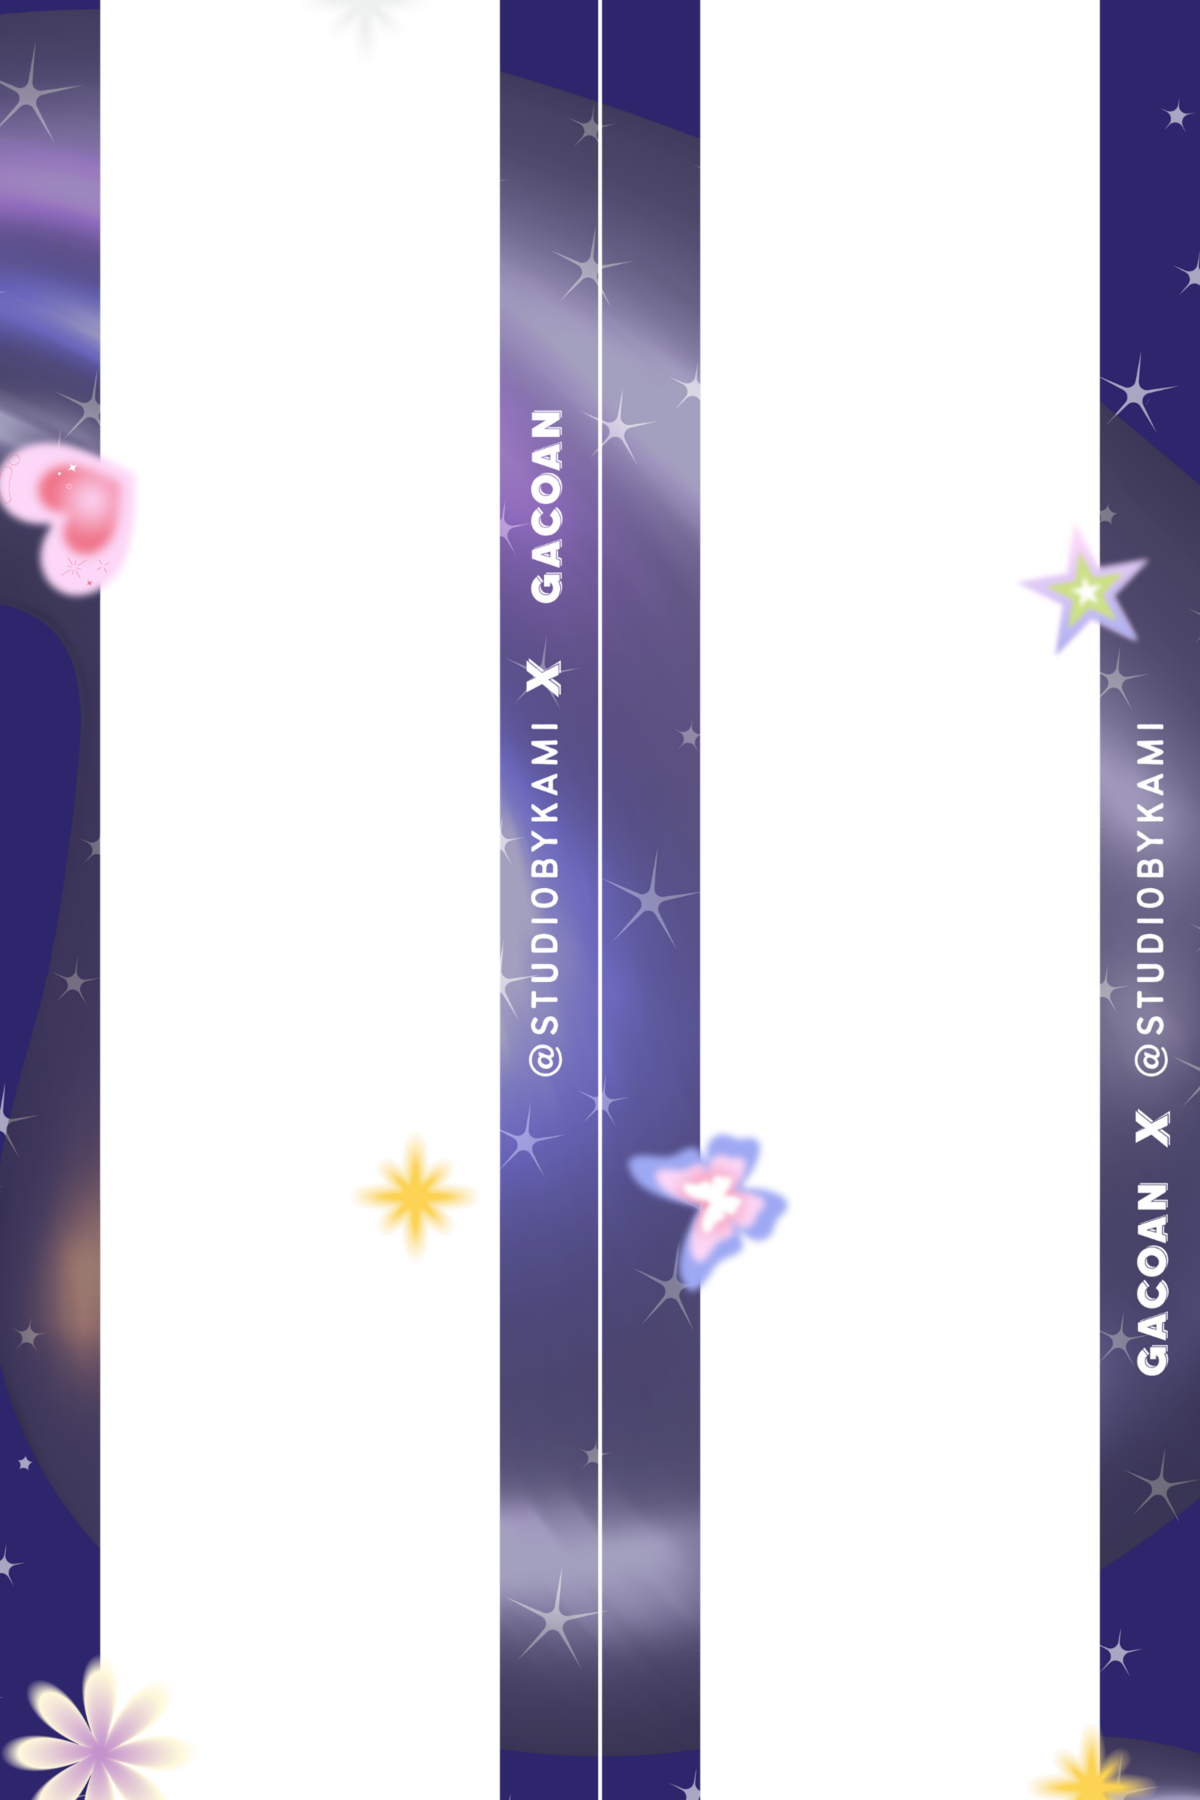
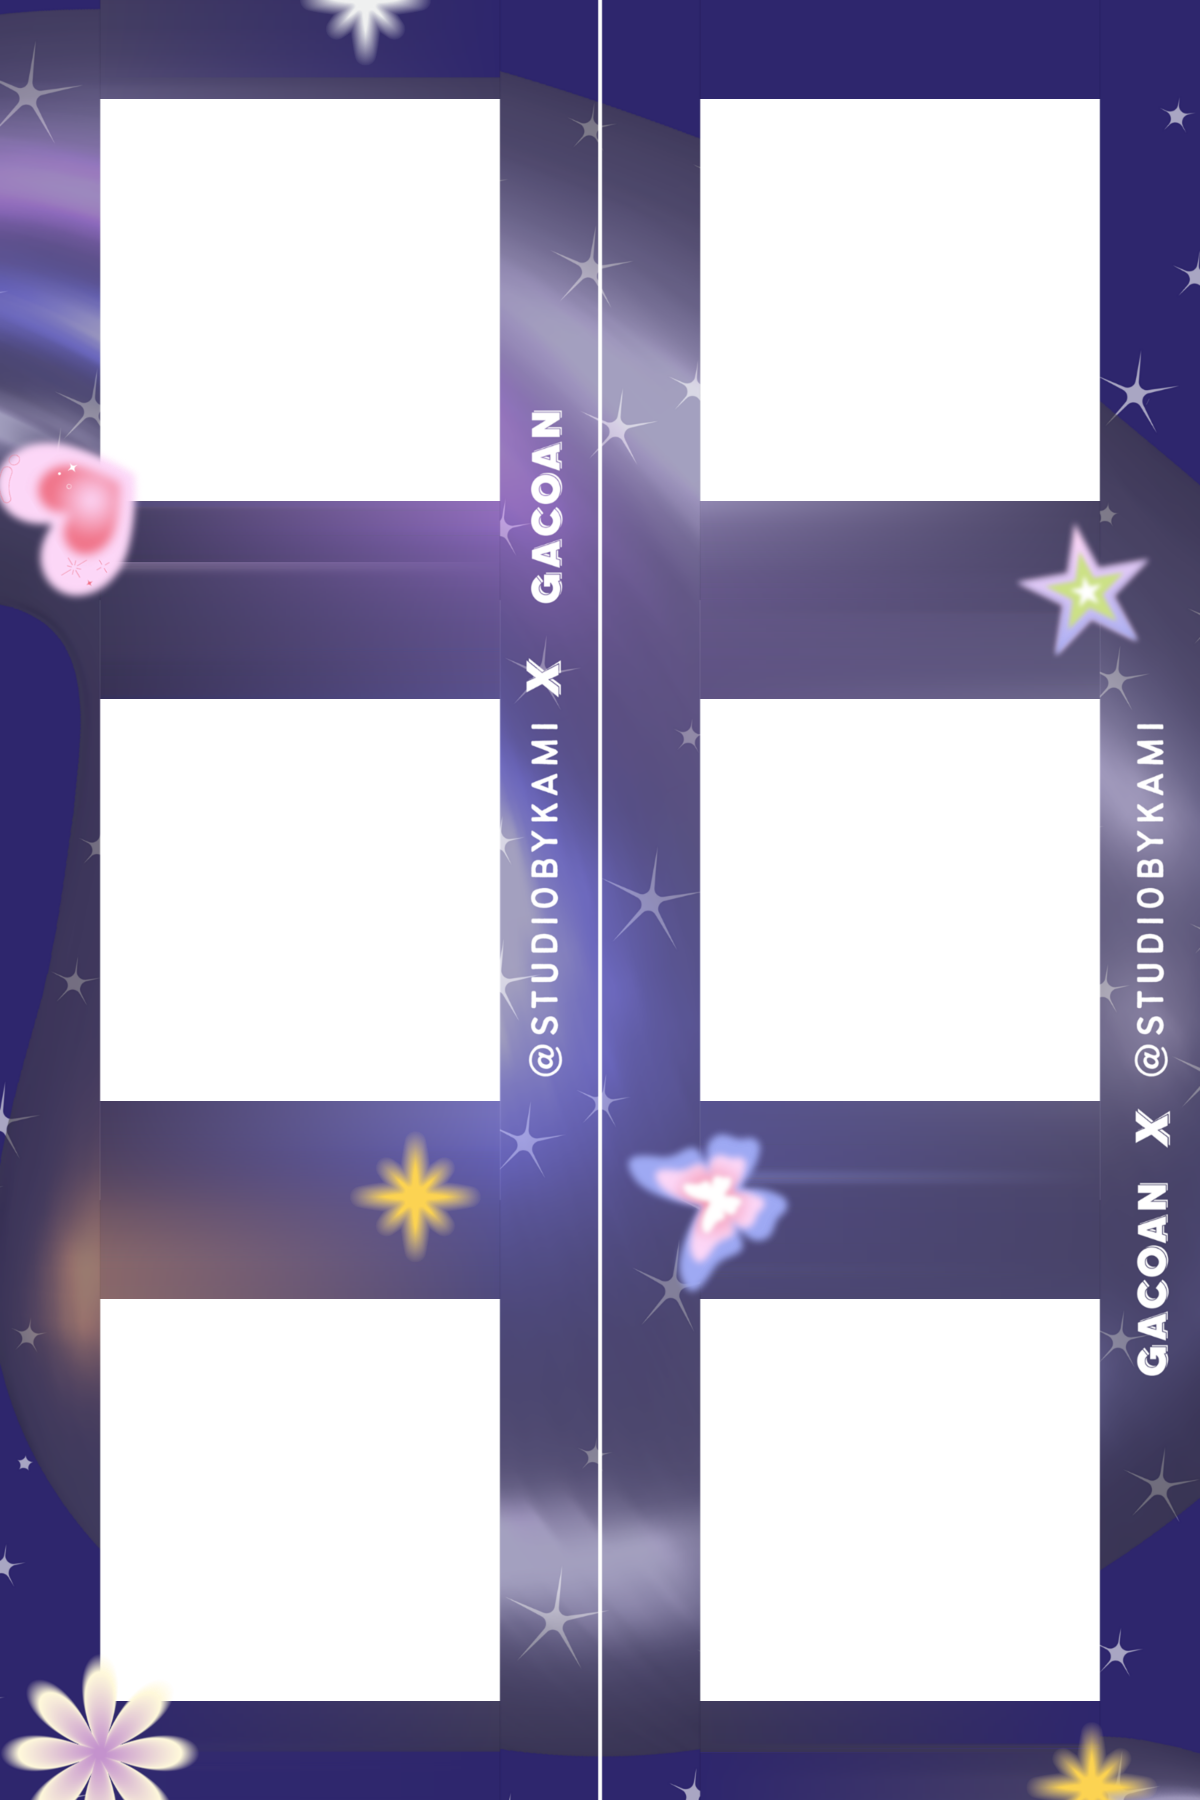
Punch the langit frame into six cells, like the rest of the set
It was the one design in the Gacoan set that took two photographs. It arrived
as two full-bleed 402x1800 panels, so a landscape frame from the camera printed
a vertical sliver of itself, and a customer picking it got a third of the
session everything else offered.

Cells come from the holes in the PNG, so this is a change to the artwork rather
than to a manifest. It is now a 2x3 grid of 402x402 cells: 99px margins, and
198px gutters both ways, which is the gutter the design already had down its
middle. Square is the least crop available here — a 3:2 frame loses a third of
its width rather than seven-eighths.

The bands punched out of the panels are filled with the sky read out of the
frame either side of them, a row at a time. Neither obvious way to read it works
alone: sampling the neighbouring pixel smears whatever it lands on, and the
heart overhanging the left panel becomes a pink stripe the full width of the
band; sampling a dark percentile over a tall window rejects the ornaments, since
every one of them is lighter than the sky, but it loses the gradient the sky has
at that row and leaves a step at the panel's edge. So the tall window only sets
the brightness above which a pixel is ornament, and the colour comes from the
frame within 40px of the edge with the ornament excluded. Nothing already opaque
was touched, so the heart, star, butterfly and sparkle still have their shapes
and now sit in the gutters.
[…]

diff --git a/agent/internal/compose/templates/README.md b/agent/internal/compose/templates/README.md
@@ -15,7 +15,7 @@ the blade differs.
 
 The two halves are **not** duplicates. Each holds its own photographs, so a cut
 sheet is two strips with different pictures rather than the same strip twice.
-Six cells, except `gacoan-5-langit`, which is two full-bleed panels.
+Six cells on every one of them, three to a strip.
 
 `strip2x6` is therefore unused by anything shipped. It remains a layout the
 printer and the catalogue both understand — an uploaded 600×1800 frame still
@@ -36,6 +36,12 @@ is the same shape on disk as a frame synced down from the catalogue, which
 The supplied artwork was 1800 × 2700 — 4×6 at 450 dpi — and was resampled to the
 300 dpi sheet before being committed. Cells detected at 450 dpi would be 1.5×
 the sheet they have to sit on.
+
+`gacoan-5-langit` arrived as two full-bleed panels and its grid was punched
+here, so it holds six photos like the rest of the set. The bands are filled with
+the sky read out of the frame either side of them, and the ornaments that
+overhang the panels were left alone. Re-exporting that one from the delivered
+file brings the two panels back.
 
 ## Adding one
 
@@ -66,9 +72,8 @@ loads, rather than printed half-off the paper.
 
 Photos **fill** their cell and are centre-cropped. A letterboxed photo inside a
 designed frame reads as a mistake, and the customer framed the shot expecting
-the whole cell. A tall narrow cell therefore crops hard: `gacoan-5-langit` is
-402 × 1800, so a landscape frame from the camera shows a vertical sliver of
-itself, which is what that design asks for.
+the whole cell. A cell squarer than the camera therefore crops hard:
+`gacoan-5-langit` is 402 × 402, so a 3:2 frame loses a third of its width.
 
 A chosen filter is applied to each cell after the photo is drawn into it, so it
 colours the photograph and never this artwork. See `filter.go`.
